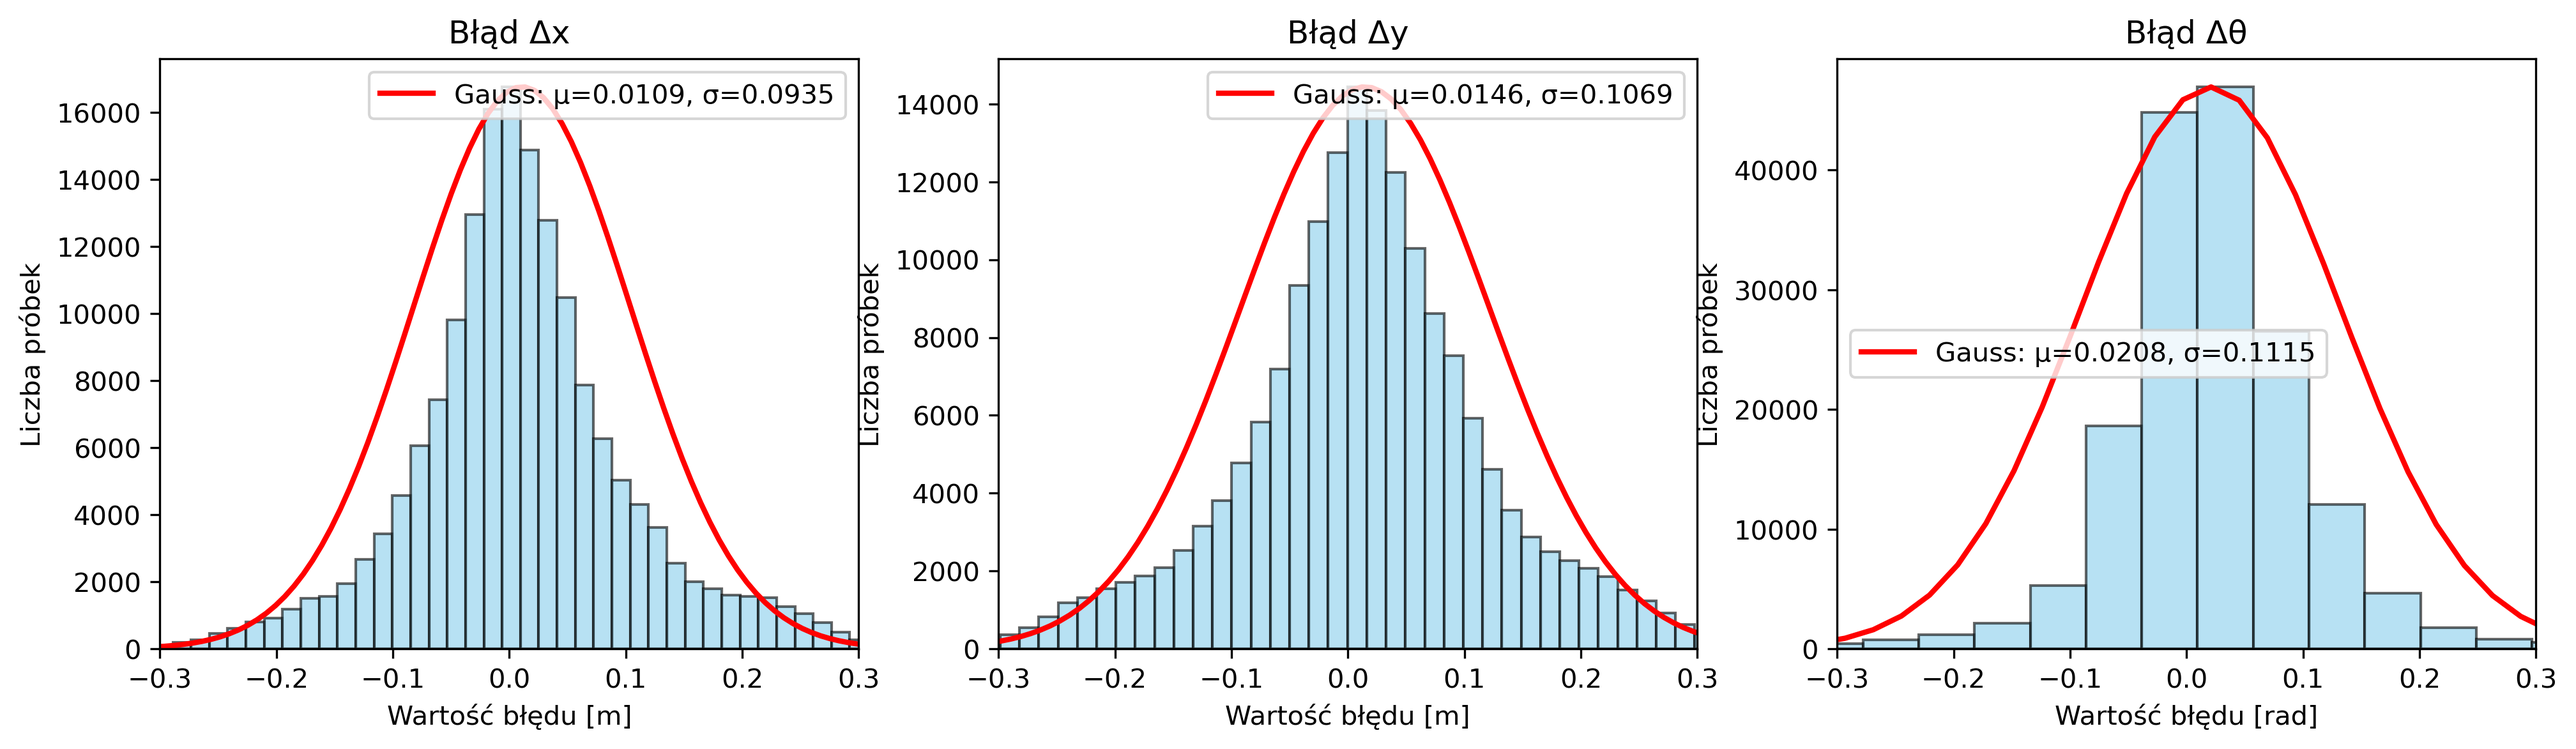
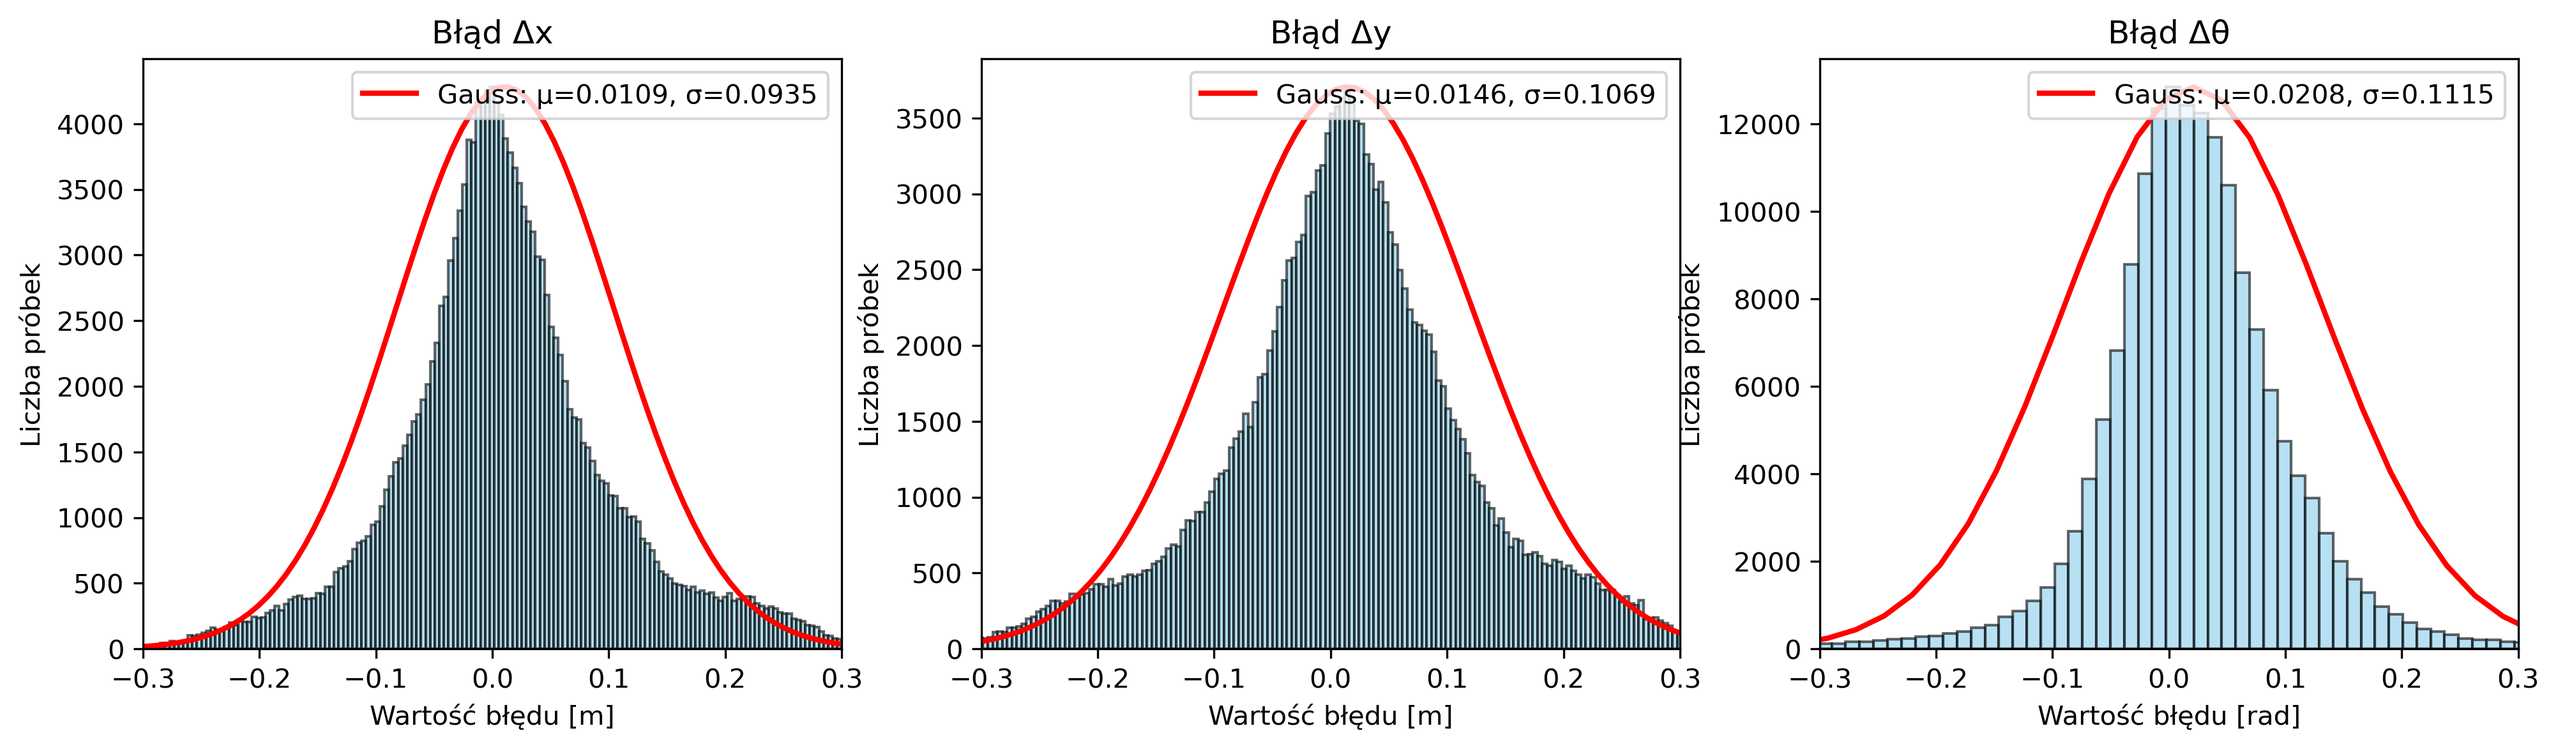
make more bins

diff --git a/AI/utilities.py b/AI/utilities.py
@@ -31,10 +31,10 @@ def get_pose_for_scan(scan_time, poses):
     return poses[best_idx][1]
 
 
-def plot_error_with_gaussian(plt, errors, title, xlabel):
+def plot_error_with_gaussian(plt, errors, title, xlabel, n_bins=200):
     errors = np.array(errors, dtype=np.float64)
     errors = np.nan_to_num(errors, nan=0.0, posinf=0.0, neginf=0.0)
-    counts, bins, _ = plt.hist(errors, bins=50, density=False, alpha=0.6, color='skyblue', edgecolor='black')
+    counts, bins, _ = plt.hist(errors, bins=n_bins, density=False, alpha=0.6, color='skyblue', edgecolor='black')
     
     mu, std = norm.fit(errors)
     
